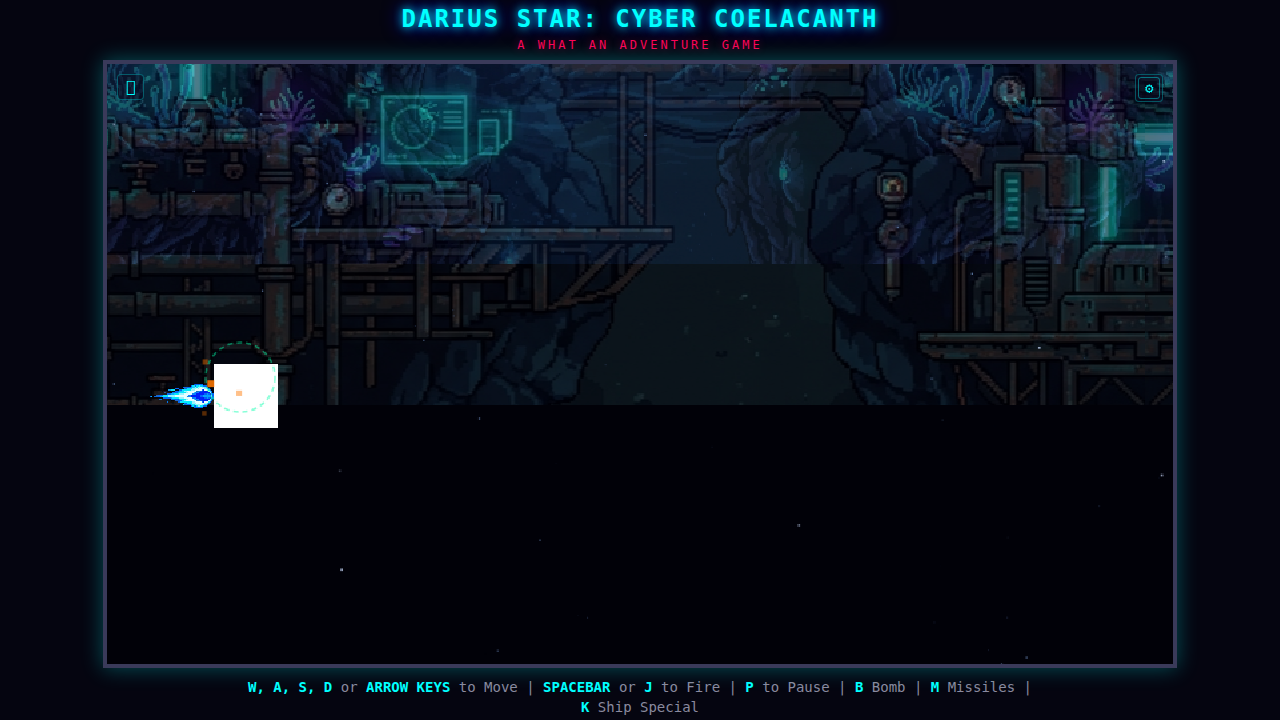
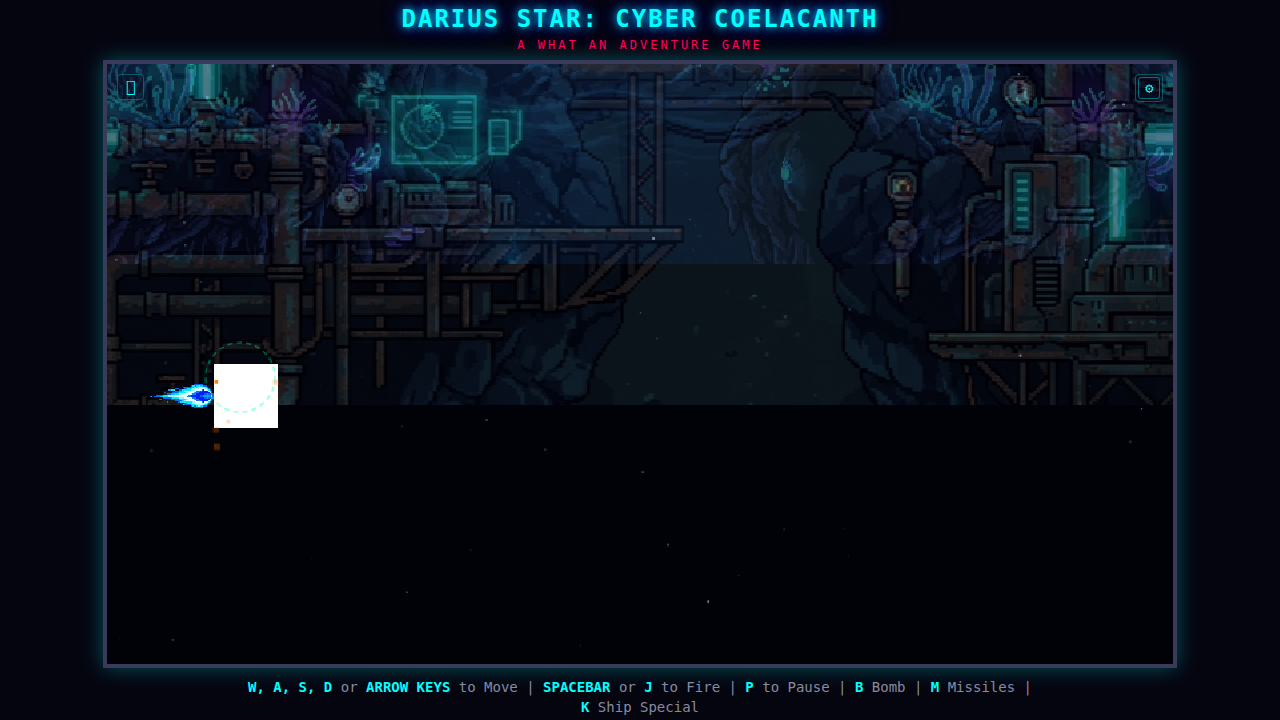
fix(sprites): Restore boss_0..3 sprite loading in sprites.js for GRO-1926

diff --git a/js/sprites.js b/js/sprites.js
@@ -150,12 +150,12 @@ const _preCompositeCache = new Set();
             bossLoadProgress = 0;
 
             const toLoad = [
-                { key: 'boss',              src: 'assets/sprites/boss_idle.png' },
-                { key: 'boss_idle',         src: 'assets/sprites/boss_idle.png' },
-                { key: 'boss_rage',         src: 'assets/sprites/boss_rage.png' },
-                { key: 'boss_laser_charge', src: 'assets/sprites/boss_charge.png' },
-                { key: 'boss_laser_fire',   src: 'assets/sprites/boss_fire.png' },
-                { key: 'boss_death',        src: 'assets/sprites/boss_death.png' },
+                { key: 'boss',              src: 'assets/sprites/boss_0.png' },
+                { key: 'boss_idle',         src: 'assets/sprites/boss_0.png' },
+                { key: 'boss_rage',         src: 'assets/sprites/boss_1.png' },
+                { key: 'boss_laser_charge', src: 'assets/sprites/boss_2.png' },
+                { key: 'boss_laser_fire',   src: 'assets/sprites/boss_3.png' },
+                { key: 'boss_death',        src: 'assets/sprites/boss_0.png' },
                 { key: 'bossMinion',        src: 'assets/sprites/boss_minion_0.png' }
             ];
             let loadedCount = 0;